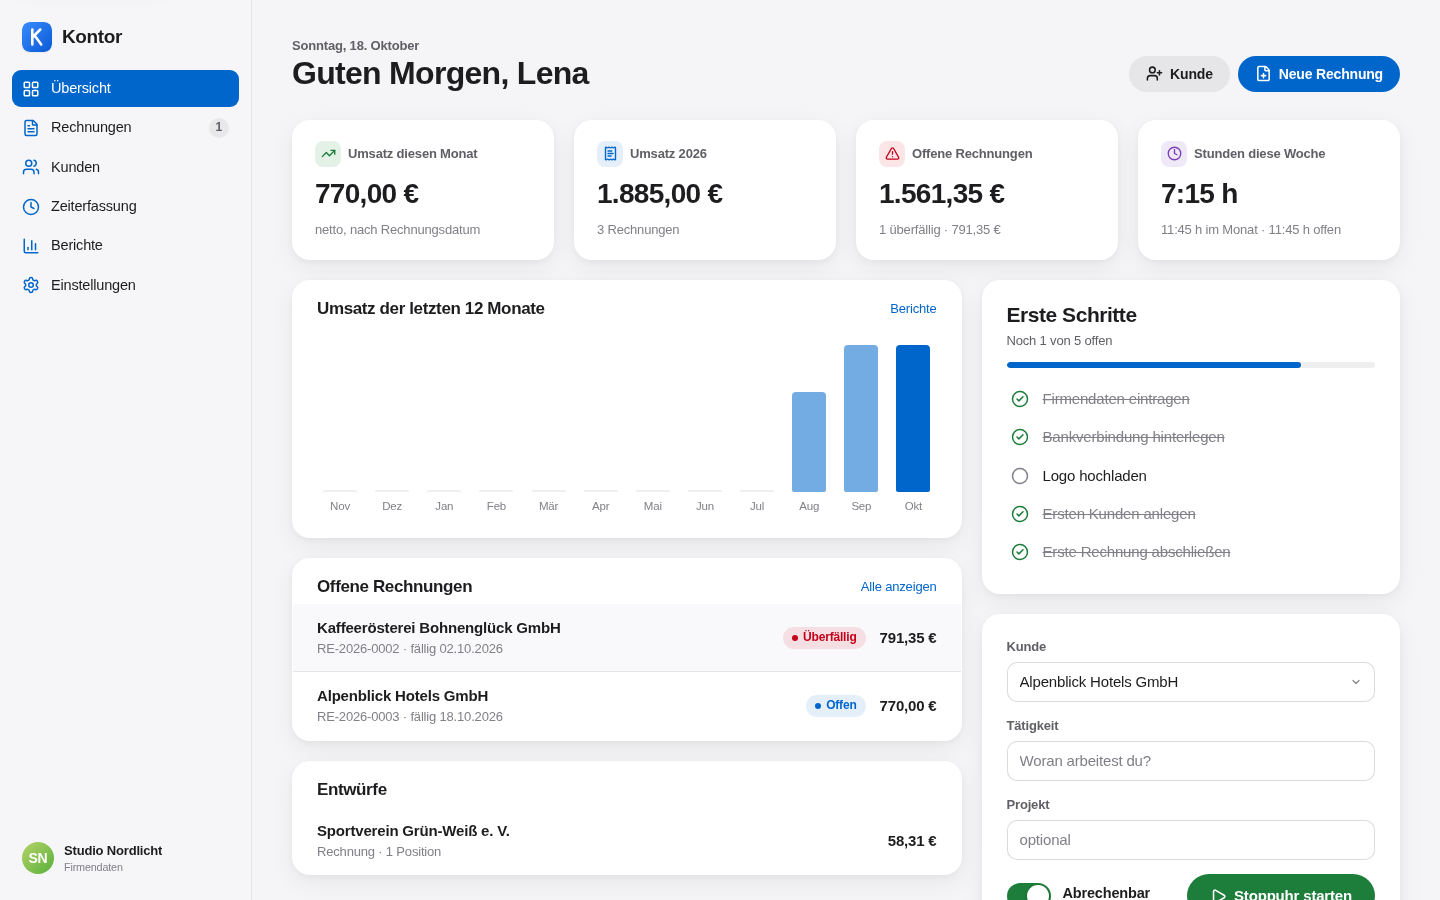
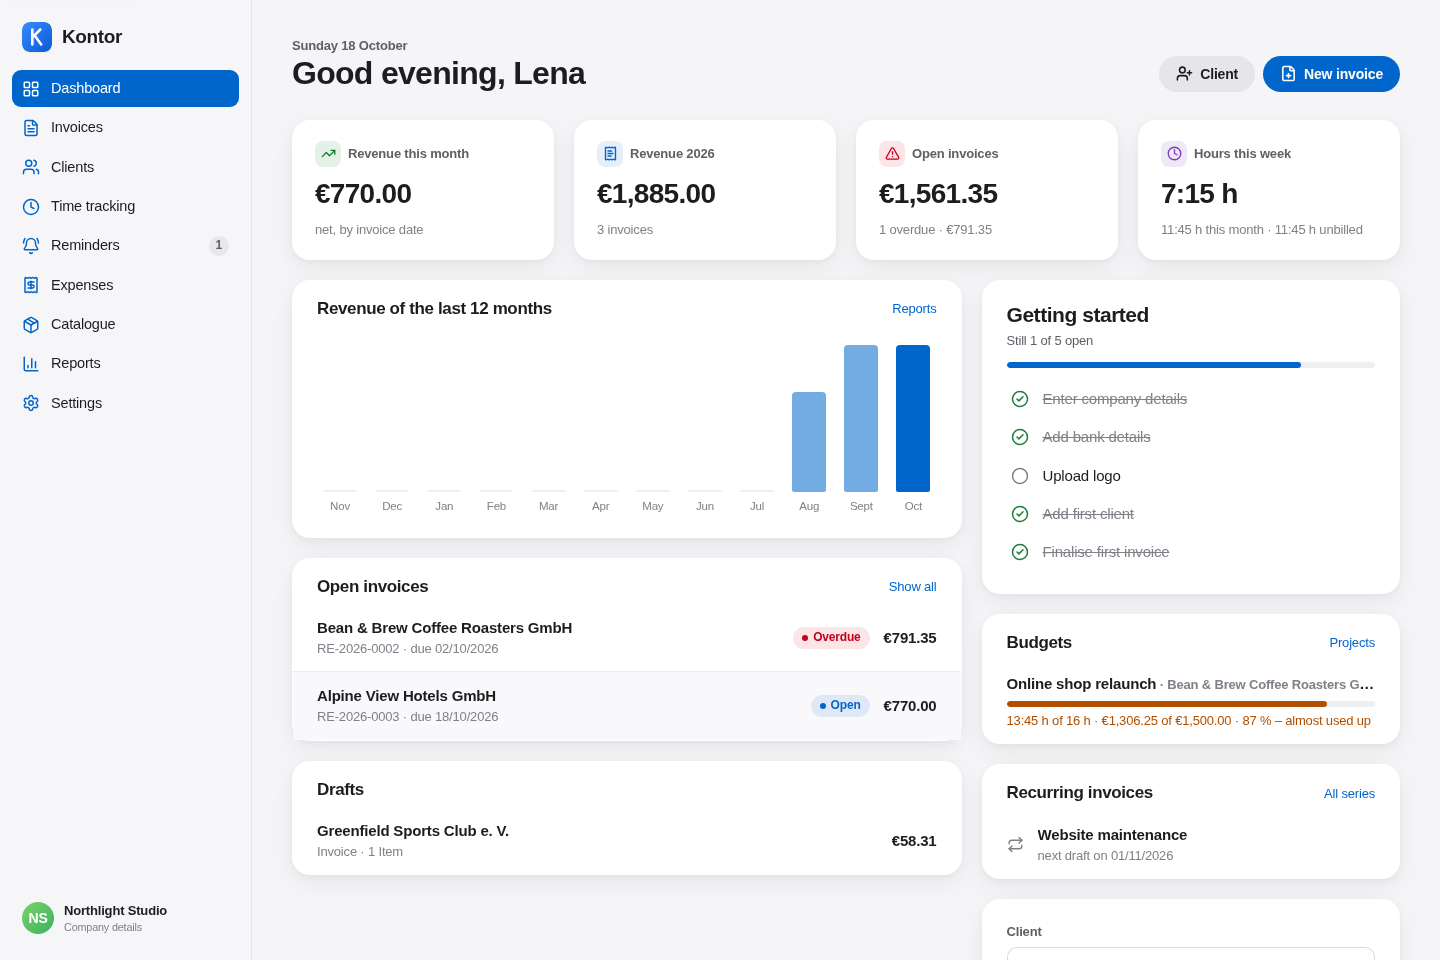
README in English for the server version, new screenshots, singular units in English documents

diff --git a/src/lib/invoiceView.ts b/src/lib/invoiceView.ts
@@ -107,10 +107,24 @@ export function senderLine(seller: Company): string {
   return [seller.name, seller.street, [seller.zip, seller.city].filter(Boolean).join(' ')].filter(Boolean).join(' · ')
 }
 
-const UNITS_EN: Record<string, string> = { 'Std.': 'h', Std: 'h', Stunden: 'h', Tag: 'days', Tage: 'days', 'Stk.': 'pcs', Stück: 'pcs', Pauschal: 'flat rate', Monat: 'months', Seite: 'pages', Lizenz: 'licences' }
+const UNITS_EN: Record<string, [string, string]> = {
+  'Std.': ['h', 'h'],
+  Std: ['h', 'h'],
+  Stunden: ['h', 'h'],
+  Tag: ['day', 'days'],
+  Tage: ['day', 'days'],
+  'Stk.': ['pc', 'pcs'],
+  Stück: ['pc', 'pcs'],
+  Pauschal: ['flat rate', 'flat rate'],
+  Monat: ['month', 'months'],
+  Seite: ['page', 'pages'],
+  Lizenz: ['licence', 'licences'],
+}
 
-export function unitLabel(unit: string, lang: InvoiceDocument['language']): string {
-  return lang === 'en' ? (UNITS_EN[unit] ?? unit) : unit
+export function unitLabel(unit: string, lang: InvoiceDocument['language'], quantity = 2): string {
+  const en = UNITS_EN[unit]
+  if (lang !== 'en' || !en) return unit
+  return Math.abs(quantity) === 1 ? en[0] : en[1]
 }
 
 export function buildInvoiceView(doc: InvoiceDocument, settings: Settings): InvoiceView {
@@ -150,7 +164,7 @@ export function buildInvoiceView(doc: InvoiceDocument, settings: Settings): Invo
     title: item.title,
     description: item.description,
     quantity: num(item.quantity, 3),
-    unit: unitLabel(item.unit, lang),
+    unit: unitLabel(item.unit, lang, item.quantity),
     unitPrice: money(item.unitPriceCents),
     discount: item.discountPercent ? `${num(item.discountPercent)} %` : '',
     taxRate: `${num(standard ? item.taxRate : 0)} %`,

diff --git a/src/pages/Documents.tsx b/src/pages/Documents.tsx
@@ -89,7 +89,7 @@ export function Documents() {
           view === 'recurring'
             ? t('Wiederkehrende Rechnungen werden zum Stichtag als Entwurf angelegt.')
             : kind === 'invoice' && docs?.length
-            ? t('{p0} offen{p1}', { p0: formatMoney(openSum), p1: overdueSum ? ` · ${formatMoney(overdueSum)} überfällig` : '' })
+            ? overdueSum ? t('{p0} offen · {p1} überfällig', { p0: formatMoney(openSum), p1: formatMoney(overdueSum) }) : t('{p0} offen', { p0: formatMoney(openSum) })
             : kind === 'quote'
               ? t('Angebote lassen sich mit einem Klick in eine Rechnung umwandeln.')
               : undefined

diff --git a/src/lib/i18n.en.ts b/src/lib/i18n.en.ts
@@ -1126,4 +1126,6 @@ export const EN: Record<string, string> = {
   "Seit einem Tag überfällig": "Overdue for one day",
   "Seit {n} Tagen überfällig": "Overdue for {n} days",
   "Anhang ansehen": "Preview attachment",
+  "{p0} offen · {p1} überfällig": "{p0} open · {p1} overdue",
+  "{p0} offen": "{p0} open",
 }

diff --git a/README.md b/README.md
@@ -1,98 +1,156 @@
 # Kontor
 
-Rechnungen schreiben und Zeiten erfassen – an einem Ort. Kontor ist eine schlanke Web-App für Freelancer und kleine Unternehmen in Deutschland und der EU: Zeiten pro Kunde stoppen, mit einem Klick in eine Rechnung übernehmen, Pflichtangaben prüfen lassen und als PDF oder E-Rechnung exportieren.
+Invoicing and time tracking for freelancers and small businesses in Germany and the EU. Track time per client, turn it into an invoice with one click, let Kontor check the mandatory details, then send the invoice as PDF or e-invoice (ZUGFeRD / XRechnung) and follow up with payment reminders.
 
-Alle Daten bleiben lokal im Browser (IndexedDB). Es gibt keinen Server, kein Konto und kein Tracking.
+Kontor runs as a small self-hosted server. All data lives in the server's SQLite database; the browser keeps nothing but the session cookie and the interface language. The interface is English by default and available in German.
 
-![Übersicht](docs/screenshots/dashboard.png)
+![Dashboard](docs/screenshots/dashboard.png)
 
-| Rechnungseditor | Zeiterfassung |
+| Invoice editor | Time tracking |
 | --- | --- |
-| ![Editor](docs/screenshots/editor.png) | ![Zeiterfassung](docs/screenshots/time.png) |
+| ![Editor](docs/screenshots/editor.png) | ![Time tracking](docs/screenshots/time.png) |
 
-| Mobil | Dunkelmodus |
+| Reminders | Reports |
 | --- | --- |
-| ![Mobil](docs/screenshots/mobile.png) | ![Dunkel](docs/screenshots/dark.png) |
+| ![Reminders](docs/screenshots/dunning.png) | ![Reports](docs/screenshots/reports.png) |
 
-## Funktionen
+| Mobile | Dark mode |
+| --- | --- |
+| ![Mobile](docs/screenshots/mobile.png) | ![Dark](docs/screenshots/dark.png) |
 
-**Rechnungen**
-- Rechnung für einen Kunden oder als Schnellrechnung an einen frei eingetippten Empfänger
-- Positionen mit Menge, Einheit, Einzelpreis, Steuersatz und Rabatt pro Position
-- Summen in ganzen Cent, Umsatzsteuer je Steuersatz auf die Nettosumme gerundet
-- Status: Entwurf, offen, überfällig, bezahlt, storniert
-- Fortlaufende, lückenlose Nummern nach eigenem Schema (z. B. `RE-{YYYY}-{0001}`), vergeben erst beim Abschließen
-- Abgeschlossene Rechnungen sind unveränderbar; Korrektur nur per Stornorechnung (optional direkt mit korrigierter Kopie)
-- Duplizieren, Angebote mit Umwandlung in eine Rechnung
-- Drei Layouts (Klassisch, Modern, Minimal) mit Akzentfarbe und Live-Vorschau
-- PDF-Export in A4 nach DIN 5008 (Anschriftenfeld Form B, Falz- und Lochmarken), mehrseitig mit Seitenzahlen
-- E-Rechnung: ZUGFeRD/Factur-X-PDF mit eingebetteter `factur-x.xml` (Profil EN 16931) oder XRechnung 3.0 als CII-XML – **experimentell**, siehe unten
+## Features
 
-**Rechtliche Prüfung (§ 14 UStG, Art. 226 MwStSystRL)**
-- Prüft im Editor laufend alle Pflichtangaben: Name und Anschrift beider Seiten, Steuernummer oder USt-IdNr., Datum, Nummer, Menge und Art der Leistung, Leistungsdatum bzw. -zeitraum, Entgelt nach Steuersätzen, Steuerbetrag oder Befreiungshinweis
-- Sonderfälle: Kleinunternehmer (§ 19 UStG), Reverse Charge innerhalb der EU (USt-IdNr. beider Seiten, Hinweis auf Steuerschuldnerschaft des Leistungsempfängers), innergemeinschaftliche Lieferung, Drittland
-- Kleinbetragsrechnungen bis 250 € brutto (§ 33 UStDV)
-- Schlägt den Steuerfall anhand von Land und USt-IdNr. des Kunden vor
-- Fehler blockieren das Abschließen, Hinweise nicht
+**Invoices and documents**
+- Invoices for clients or as quick invoices to any recipient, quotations that convert into invoices
+- Items with quantity, unit, price, VAT rate and item discount; a discount on the whole invoice (percentage or amount) that is split across the VAT rates and exported as allowance per rate
+- Down payment invoices and final invoices that deduct them, with net and VAT per rate (§ 14 (5) UStG)
+- Credit notes (*Rechnungskorrektur*) with their own number range, full or partial, referencing the original invoice – in addition to cancellation invoices (*Stornorechnung*)
+- Partial payments with remaining amount; the invoice is settled by payments and credit notes
+- Gap-free, sequential numbers per range (e.g. `RE-{YYYY}-{0001}`), assigned by the server at finalisation, even with several people working at the same time
+- Finalised documents are immutable on the server (GoBD idea); payments, credit notes and other changes are written to an audit log
+- Recurring invoices: interval, next run, the server creates the draft on the due date; placeholders `{Monat}`, `{Jahr}`, `{Quartal}`, `{Zeitraum}`
+- Service catalogue with search in the editor
+- Documents in the client's language (English or German), currencies EUR, CHF, USD and GBP
+- Three PDF layouts in A4 / DIN 5008 with fold marks, live preview
 
-**Zeiterfassung**
-- Stoppuhr pro Kunde, läuft auch nach dem Neuladen weiter und ist in der Navigation sichtbar
-- Manuelle Einträge mit Tätigkeit, Details, Projekt, abrechenbar ja/nein und optionalem Stundensatz
-- Offene Zeiten mit einem Klick in eine Rechnung übernehmen – je Eintrag, je Tag oder je Projekt; die Einträge gelten danach als abgerechnet
-- Wochen- und Monatsübersicht mit Tagesbalken
+**Compliance**
+- Continuous check of the mandatory details (§ 14 (4) UStG, Art. 226 EU VAT Directive), including small business (§ 19 UStG), reverse charge, intra-Community supply, third country and small invoices (§ 33 UStDV)
+- E-invoices: ZUGFeRD / Factur-X PDF (profile EN 16931) as **PDF/A-3B** with embedded fonts, sRGB output intent and XMP metadata, or XRechnung 3.0 as CII XML
+- Import of incoming XRechnung / ZUGFeRD (CII or UBL, also embedded in a PDF) as expense
 
-**Außerdem**
-- Kundenverwaltung mit Suche, Archiv, Stundensatz und Zahlungsziel je Kunde; Kundenseite mit Rechnungen, Zeiten und offenen Beträgen
-- Dashboard: Umsatz Monat/Jahr, offene und überfällige Rechnungen, laufende Stoppuhr, Stunden
-- Berichte: Umsatz pro Monat, Umsatzsteuer-Übersicht nach Monat oder Quartal, Umsatz und Stunden nach Kunde und Projekt
-- Einstellungen: Firmendaten, Logo (PNG/JPG/SVG), Bankverbindung, Standardtexte mit Platzhaltern, Zahlungsziel, Steuersatz, Währung, Nummernkreise, Layout und Farbe
-- JSON-Sicherung und Wiederherstellung, CSV-Export der Rechnungen (Excel-kompatibel)
-- Onboarding beim ersten Start, optional mit Beispieldaten
-- Hell- und Dunkelmodus nach Systemeinstellung, responsiv vom Smartphone bis zum Desktop, per Tastatur bedienbar (`g` gefolgt von `u`, `r`, `k`, `z`, `b` oder `e` springt zwischen den Bereichen)
+**Getting paid**
+- Payment reminder, first and final reminder as separate documents with PDF, configurable intervals, fees and texts
+- Default interest per § 288 BGB: base rate (entered in the settings) plus 9 points for businesses or 5 for consumers, optional € 40 flat-rate compensation for businesses
+- Overview of overdue invoices with the next step, history per invoice
+- Sending by e-mail through your SMTP server with PDF, ZUGFeRD or XRechnung attachment and templates per language; without SMTP Kontor opens your mail program and downloads the file
 
-## Starten
+**Time, projects, expenses, reports**
+- Timer per user and manual entries, billing per entry, day or project, configurable rounding (e.g. 15 minutes)
+- Projects per client with hour and money budget, progress bars and warnings from 80 %
+- Expenses with input VAT, category and receipt file (image or PDF, stored on the server), CSV export
+- Revenue, VAT overview by invoice date (*Soll*) or payment date (*Ist*), simplified profit statement (*EÜR*) and figures for the VAT return (*USt-Voranmeldung*, boxes 81, 86, 21, 41, 45, 66, 83) – as orientation, not tax advice
 
-Voraussetzung: Node.js 20 oder neuer.
+**Everyday use**
+- Quick search with `Cmd/Ctrl + K` over clients, documents and actions; `g` followed by a letter jumps between sections
+- Undo for deletions, light and dark mode, responsive down to phone size, installable as an app
+- Owner account plus team members in the same workspace
+- Automatic database backups on the server, full JSON backup and restore in the interface, CSV export of invoices
+
+## Getting started
+
+Requirements: Node.js 22.13 or newer (Node 24 recommended).
 
 ```bash
 npm install
-npm run dev        # Entwicklungsserver auf http://localhost:5173
-npm test           # Unit-Tests (Vitest)
-npm run build      # Produktionsbuild nach dist/
-npm run preview    # Build lokal ansehen
+cp .env.example .env     # optional, see Configuration
+npm run dev              # web app on http://localhost:5173, API on port 8787
 ```
 
-Der Build ist eine rein statische Seite (relative Pfade, Hash-Routing) und läuft auf jedem Webspace, z. B. GitHub Pages oder Netlify.
+If port 8787 is taken, start with `API_PORT=8790 npm run dev`. Open the web app and create the owner account. The first account becomes the owner of the workspace; further people are added under *Settings → Account & team*.
 
-## Technik
+Other scripts:
 
-- Vite, React 19, TypeScript
-- Dexie (IndexedDB) für die lokale Datenhaltung
-- pdf-lib für PDF und das Einbetten der E-Rechnung
-- Eigenes CSS ohne UI-Framework, Icons von Lucide
-- Vitest für Steuer-, Summen-, Nummern- und Ablauf-Tests
-
-```
-src/
-  lib/          Geschäftslogik: Berechnung, Nummernkreise, Validierung, PDF, E-Rechnung, Datenbank
-  components/   wiederverwendbare Oberflächen-Bausteine
-  pages/        Seiten (Übersicht, Rechnungen, Kunden, Zeiterfassung, Berichte, Einstellungen)
+```bash
+npm test                 # unit tests (Vitest) and server tests (node:test)
+npm run test:e2e         # end-to-end tests with Playwright (needs `npm run build` first)
+npm run lint             # oxlint
+npm run build            # web app to dist/, server bundle to dist-server/
+npm start                # production server: API and web app on one port
 ```
 
-Geldbeträge werden durchgehend als ganze Cent gespeichert und mit BigInt kaufmännisch gerundet.
+## Running with Docker
 
-## E-Rechnung (experimentell)
+One image serves the API and the web app:
 
-Kontor erzeugt Rechnungsdaten im UN/CEFACT-CII-Format nach EN 16931, entweder eingebettet in ein PDF (ZUGFeRD 2.x / Factur-X, Profil EN 16931) oder als XRechnung 3.0. Beispielrechnungen für Regelbesteuerung, Reverse Charge, Kleinunternehmer, Drittland und Storno wurden mit dem KoSIT-Validator (Konfiguration XRechnung 3.0.2) ohne Fehler geprüft. Das PDF ist allerdings **kein validiertes PDF/A-3**, und der Export ist nicht offiziell zertifiziert. Prüfe die Dateien vor dem produktiven Einsatz, z. B. mit dem [KoSIT-Validator](https://github.com/itplr-kosit/validator).
+```bash
+cp .env.example .env     # set KONTOR_SECRET at least
+docker compose up -d     # http://localhost:8787
+```
 
-## Datensicherung
+Data, receipts and automatic backups live in the volume `kontor-data` (`/data` in the container). Put a reverse proxy with HTTPS in front of it for anything beyond your own machine; session cookies are marked `Secure` in production.
 
-Die Daten liegen nur in dem Browser, in dem du Kontor nutzt. Lade regelmäßig unter *Einstellungen → Daten* eine Sicherung herunter. Rechnungen müssen in Deutschland in der Regel acht Jahre aufbewahrt werden – bewahre die exportierten PDFs zusätzlich an einem sicheren Ort auf.
+## Configuration
 
-## Rechtlicher Hinweis
+All settings are environment variables, see [`.env.example`](.env.example):
 
-Kontor hilft dabei, formal vollständige Rechnungen zu schreiben, ersetzt aber keine Steuer- oder Rechtsberatung. Alle Prüfungen und Texte sind nach bestem Wissen erstellt, jedoch ohne Gewähr für Richtigkeit und Vollständigkeit. Ob ein Steuerfall (z. B. Reverse Charge oder Kleinunternehmerregelung) auf dich zutrifft, klärst du am besten mit deiner Steuerberatung. Kontor ist keine zertifizierte GoBD-Software; die Unveränderbarkeit abgeschlossener Rechnungen ist innerhalb der App umgesetzt, aber nicht gegen Eingriffe in die Browser-Datenbank geschützt.
+| Variable | Default | Meaning |
+| --- | --- | --- |
+| `PORT` | `8787` | Port of API and web app |
+| `DATA_DIR` | `./data` | SQLite database and backups |
+| `KONTOR_SECRET` | – | Key for encrypting stored SMTP passwords |
+| `ALLOW_SIGNUP` | `first` | `first`: only the owner may register, `true`: open, `false`: closed |
+| `COOKIE_SECURE` | `true` in production | Secure flag of the session cookie |
+| `SESSION_DAYS` | `30` | Session lifetime |
+| `BACKUP_INTERVAL_HOURS` | `24` | Automatic backups, `0` disables them |
+| `BACKUP_KEEP_DAYS` | `14` | Retention of automatic backups |
+| `SMTP_*` | – | Optional server-wide SMTP account |
 
-## Lizenz
+Secrets never belong in the repository; keep them in `.env`, which is ignored by git.
 
-MIT
+## Coming from the browser-only version
+
+Earlier versions stored everything in the browser (IndexedDB). After signing in, *Settings → Data & backup* offers to import that data once to the server. A JSON backup from the old version can also be restored there.
+
+## Architecture
+
+- **Web app:** Vite, React 19, TypeScript, own CSS, Lucide icons. It talks only to the API; collections are loaded on demand and kept in memory, changes from other devices arrive via server-sent events.
+- **Server:** Express 5 on Node, SQLite through `node:sqlite` with versioned migrations. Domain operations such as finalising, cancelling, crediting, payments or billing time run on the server in one transaction each and are serialised, which keeps numbering gap-free.
+- **Shared domain code:** `src/lib` (calculation, numbering, validation, dunning, VAT, e-invoice) runs unchanged in the browser, on the server and in tests on top of a small document store with three backends (API, SQLite, memory).
+- **Security:** passwords hashed with bcrypt, HttpOnly session cookies with SameSite, CSRF double-submit token plus origin check, rate limits on login, SMTP passwords encrypted with AES-256-GCM, logs contain only method, path and status.
+- **PDF:** pdf-lib in the browser; fonts (Liberation, SIL OFL) and an sRGB profile are bundled for PDF/A.
+
+```
+src/lib/        domain logic, store, API client, i18n
+src/pages/      pages     src/components/  UI building blocks
+server/src/     API, SQLite store, auth, backups, mail
+server/test/    server tests      e2e/  Playwright tests
+```
+
+Amounts are stored as whole cents and rounded commercially with BigInt.
+
+## E-invoices and validation
+
+The CII data follows EN 16931. Invoices with invoice discount, down payments and final invoices, credit notes, cancellations, reverse charge, small business, third country and CHF were checked with the [KoSIT validator](https://github.com/itplr-kosit/validator) (configuration XRechnung 3.0.2) without errors or warnings. The ZUGFeRD PDFs, reminders and multi-page documents pass [veraPDF](https://verapdf.org) as PDF/A-3B; CI runs veraPDF on every push. There is no official certification, so check new constellations with your recipient's validator before relying on them.
+
+## Data and retention
+
+Invoices generally have to be kept for eight years in Germany. The server writes daily copies of its database to `DATA_DIR/backups`; keep a copy of that folder or of the JSON backup somewhere else as well.
+
+## Deliberately open
+
+- No offline editing: the app shell can be installed, but data and number assignment need the server.
+- `node:sqlite` is used instead of a native driver to keep the image simple; it is marked experimental in Node 22 and stable enough in Node 24.
+- PDFs are rendered in the browser; the server sends what the client uploads.
+- XRechnung is exported in CII syntax only, not UBL.
+- No VIES check of VAT IDs, no bank import, no DATEV export.
+- The base interest rate (*Basiszinssatz*) is entered manually.
+- Reports sum amounts without currency conversion.
+- Kontor is not certified GoBD software; immutability and audit log are enforced by the server but not tamper-proof against direct database access.
+
+## Legal note
+
+Kontor helps to write formally complete invoices but is no substitute for tax or legal advice. All checks and texts are provided to the best of our knowledge, without any guarantee. Whether a tax treatment such as reverse charge or the small business scheme applies to you is best clarified with your tax adviser.
+
+## Licence
+
+MIT. The bundled Liberation fonts are licensed under the SIL Open Font License 1.1 (`public/fonts/LICENSE-Liberation.txt`).
